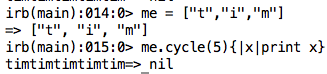
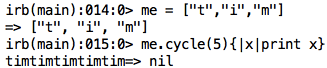
add finishing touches to t4 blog and blog-home. Touch up images for t4 blog

diff --git a/blog/blog-home.html b/blog/blog-home.html
@@ -69,26 +69,27 @@
          <span class = "italics"> <a href="http://ruby-doc.org/core-2.2.2/Enumerator.html">"An enumerator is a class which allows both internal and external iteration."</a></span> 
         </p>
          <p class="blogpost">
-         In other words, a class is considered "to be an enumerator" if it has a specific set of methods that allow for iteration. We're used to casses like Array and String being enuerable, but this is because they come bundled with built-in enumerable methods. Which methods, you ask? Mainly the ones that allow iteration. The most popular one (as well as mandatory) is <span class = "italics">.each</span>. 
+         In other words, a class is considered "to be an enumerator" if it has a specific set of methods that allow for iteration. We're familiar with casses like Array and String being enuerable, but this is because they come bundled with built-in enumerable methods. Which methods, you ask? Mainly the ones that allow iteration. The most popular one (as well as mandatory) is <span class = "italics">.each</span>. 
         </p>
         <p class="blogpost">
-        In conclusion: enumerators are classes that can be iterated. Whether or not they can be iterated is up do the methods they contain. Popular classes come with them built in, but you can also make custom classes that are enumerable by adding  <a href="http://stackoverflow.com/questions/7220634/how-do-i-use-the-enumerable-mixin-in-my-class"><span class = "italics">include Enumerable</span></a> during their initial definition. Now lets learn about some of the popular enumerable methods:
+        So enumerators are classes that can be iterated. Whether or not they can be iterated is up do the methods they contain. Popular classes come with them built in, but you can also make custom classes that are enumerable by adding  <a href="http://stackoverflow.com/questions/7220634/how-do-i-use-the-enumerable-mixin-in-my-class"><span class = "italics">include Enumerable</span></a> during their initial definition. Now lets learn about some of the popular enumerable methods:
         </p>
         <p class="blogpost"><ul class="ul">
-          <li class="li"><a href="http://ruby-doc.org/core-2.2.2/Enumerable.html#method-i-cycle"><span class="bold">.cycle</span></a> <p> this cycles through your elements. Simple! For example, call cycle on an array, pass it a block do to something to each element of that array. It will do this. Forever. (remember to pass it an argument if you want it to just cycle n-times)</p>
+          <li class="li"><a href="http://ruby-doc.org/core-2.2.2/Enumerable.html#method-i-cycle"><span class="bold">.cycle</span></a> <p>cycle cycles through your elements. Simple! For example, call cycle on an array, pass it a block do to something to each element of that array. It will do this. Forever. (remember to pass it an argument if you want it to just cycle n-times)</p>
           <p><img src="../imgs/cycle.png"></p>
            </li>
-           <li class="li"><a href ="http://ruby-doc.org/core-2.2.2/Enumerable.html#method-i-group_by"><span class="bold">.group_by</span></a> <p> this groups your elements by whatever you pass in the block. It returns a hash. Stay with me here. The values of the keys are from evaluated result passed to the block. The hashe's values are the arrays (eg indexes) of the elements that resulted in that outcome.</p>
+           <li class="li"><a href ="http://ruby-doc.org/core-2.2.2/Enumerable.html#method-i-group_by"><span class="bold">.group_by</span></a> <p>group_by groups your elements by whatever you pass in the block. It returns a hash. Stay with me here. The values of the keys are from evaluated result passed to the block. The hashe's values are the arrays (eg indexes) of the elements that resulted in that outcome.</p>
 
            <p>For example, in the example below we call group_by on the range of numbers from one to six. Look to the block 
            and we'll notice that for every index (every number in the range), we simply multiply it by three. We've done this plenty of times with .each. But the difference is the way the output is saved. In the case of group_by, the 
            output is saved in a hash. The key is the value the block evaluated to, for example i*3. The value is each index
            that resulted in that output, for example the first index has the value of one (a coincidence due to the range we passed). When we multiply the value of the first index by three, the output is three. So the key is three (the evaulation), and the value is 1 (the index that gave us the result):</p>
           <p><img src="../imgs/group_by.png"></p>
-           </li> <li class="li"><a href ="http://ruby-doc.org/core-2.2.2/Enumerable.html#method-i-map"><span class="bold">.map</span></a> <p> is a little easier than group_by. The quickest way to understand map is to liken it to
-           each. Recall that each does something to each element of the object it's called on, and it returns a new object. In other words, each isn't destructive. Map does just this but is destructive.  </p>
+           </li> <li class="li"><a href ="http://ruby-doc.org/core-2.2.2/Enumerable.html#method-i-map"><span class="bold">.map</span></a> <p>map is a little easier to understand than group_by. The quickest way to understand map is to liken it to each. Recall that each does something to each element of the object it's called on, and it returns a new object. In other words, each isn't destructive. Map does just this but is destructive.  </p>
           <p><img src="../imgs/map.png"></p>
            </li>
+           <p class="blogpost">
+          There's plenty of other enumerator methods to do all the tricks you need. Be sure to check out <a href ="http://ruby-doc.org/core-2.2.2/">the Ruby Docs</a> for more! 
         </ul>
         </p>
       </div>

diff --git a/blog/blog_posts/t4-enumerable-methods.html b/blog/blog_posts/t4-enumerable-methods.html
@@ -67,26 +67,29 @@
          <span class = "italics"> <a href="http://ruby-doc.org/core-2.2.2/Enumerator.html">"An enumerator is a class which allows both internal and external iteration."</a></span> 
         </p>
          <p class="blogpost">
-         In other words, a class is considered "to be an enumerator" if it has a specific set of methods that allow for iteration. We're used to casses like Array and String being enuerable, but this is because they come bundled with built-in enumerable methods. Which methods, you ask? Mainly the ones that allow iteration. The most popular one (as well as mandatory) is <span class = "italics">.each</span>. 
+         In other words, a class is considered "to be an enumerator" if it has a specific set of methods that allow for iteration. We're familiar with casses like Array and String being enuerable, but this is because they come bundled with built-in enumerable methods. Which methods, you ask? Mainly the ones that allow iteration. The most popular one (as well as mandatory) is <span class = "italics">.each</span>. 
         </p>
         <p class="blogpost">
-        In conclusion: enumerators are classes that can be iterated. Whether or not they can be iterated is up do the methods they contain. Popular classes come with them built in, but you can also make custom classes that are enumerable by adding  <a href="http://stackoverflow.com/questions/7220634/how-do-i-use-the-enumerable-mixin-in-my-class"><span class = "italics">include Enumerable</span></a> during their initial definition. Now lets learn about some of the popular enumerable methods:
+        So enumerators are classes that can be iterated. Whether or not they can be iterated is up do the methods they contain. Popular classes come with them built in, but you can also make custom classes that are enumerable by adding  <a href="http://stackoverflow.com/questions/7220634/how-do-i-use-the-enumerable-mixin-in-my-class"><span class = "italics">include Enumerable</span></a> during their initial definition. Now lets learn about some of the popular enumerable methods:
         </p>
         <p class="blogpost"><ul class="ul">
-          <li class="li"><a href="http://ruby-doc.org/core-2.2.2/Enumerable.html#method-i-cycle"><span class="bold">.cycle</span></a> <p> this cycles through your elements. Simple! For example, call cycle on an array, pass it a block do to something to each element of that array. It will do this. Forever. (remember to pass it an argument if you want it to just cycle n-times)</p>
+          <li class="li"><a href="http://ruby-doc.org/core-2.2.2/Enumerable.html#method-i-cycle"><span class="bold">.cycle</span></a> <p>cycle is cycles through your elements. Simple! For example, call cycle on an array, pass it a block do to something to each element of that array. It will do this. Forever. (remember to pass it an argument if you want it to just cycle n-times)</p>
           <p><img src="../../imgs/cycle.png"></p>
            </li>
-           <li class="li"><a href ="http://ruby-doc.org/core-2.2.2/Enumerable.html#method-i-group_by"><span class="bold">.group_by</span></a> <p> this groups your elements by whatever you pass in the block. It returns a hash. Stay with me here. The values of the keys are from evaluated result passed to the block. The hashe's values are the arrays (eg indexes) of the elements that resulted in that outcome.</p>
+           <li class="li"><a href ="http://ruby-doc.org/core-2.2.2/Enumerable.html#method-i-group_by"><span class="bold">.group_by</span></a> <p>group_by groups your elements by whatever you pass in the block. It returns a hash. Stay with me here. The values of the keys are from evaluated result passed to the block. The hashe's values are the arrays (eg indexes) of the elements that resulted in that outcome.</p>
 
            <p>For example, in the example below we call group_by on the range of numbers from one to six. Look to the block 
            and we'll notice that for every index (every number in the range), we simply multiply it by three. We've done this plenty of times with .each. But the difference is the way the output is saved. In the case of group_by, the 
            output is saved in a hash. The key is the value the block evaluated to, for example i*3. The value is each index
            that resulted in that output, for example the first index has the value of one (a coincidence due to the range we passed). When we multiply the value of the first index by three, the output is three. So the key is three (the evaulation), and the value is 1 (the index that gave us the result):</p>
           <p><img src="../../imgs/group_by.png"></p>
-           </li> <li class="li"><a href ="http://ruby-doc.org/core-2.2.2/Enumerable.html#method-i-map"><span class="bold">.map</span></a> <p> is a little easier than group_by. The quickest way to understand map is to liken it to
+           </li> <li class="li"><a href ="http://ruby-doc.org/core-2.2.2/Enumerable.html#method-i-map"><span class="bold">.map</span></a> <p>map is a little easier than group_by. The quickest way to understand map is to liken it to
            each. Recall that each does something to each element of the object it's called on, and it returns a new object. In other words, each isn't destructive. Map does just this but is destructive.  </p>
           <p><img src="../../imgs/map.png"></p>
            </li>
+          <p class="blogpost">
+          There's plenty of other enumerator methods to do all the tricks you need. Be sure to check out <a href ="http://ruby-doc.org/core-2.2.2/Enumerable.html#method-i-group_by">the Ruby Docs</a> for more! 
+          </p>
         </ul>
         </p>
       </div>
